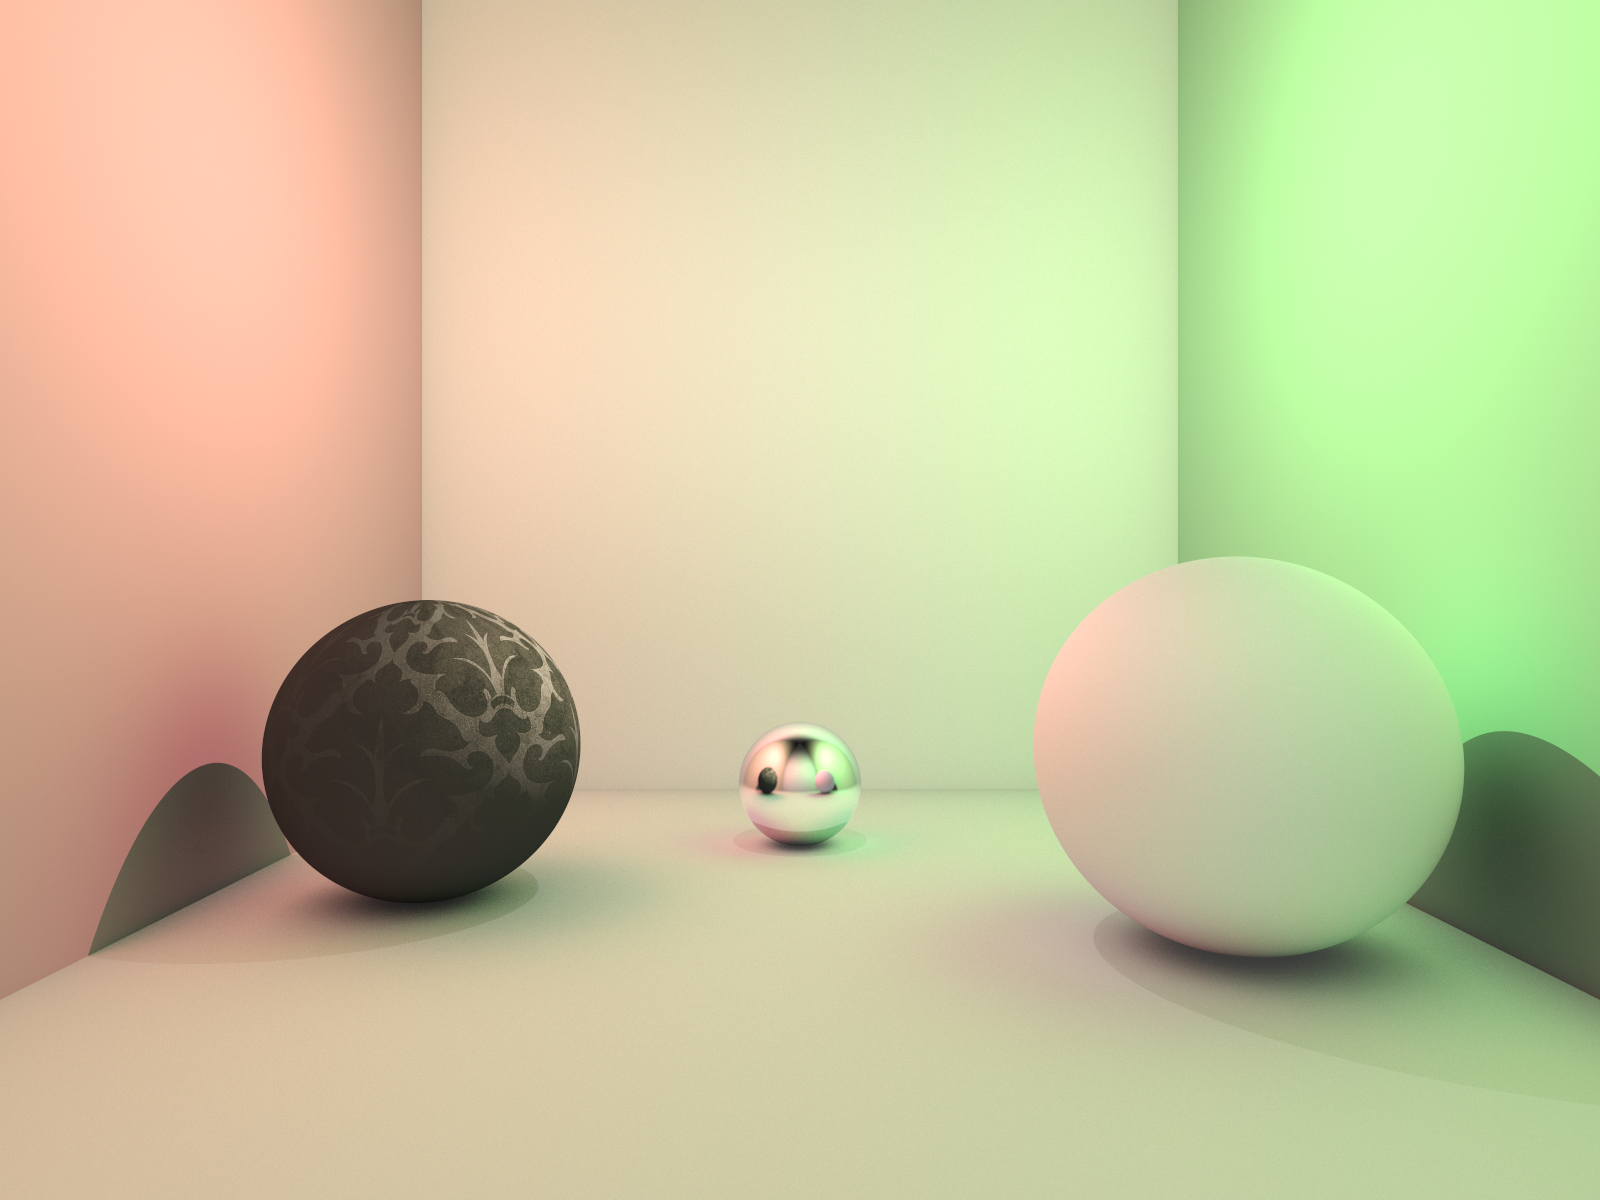
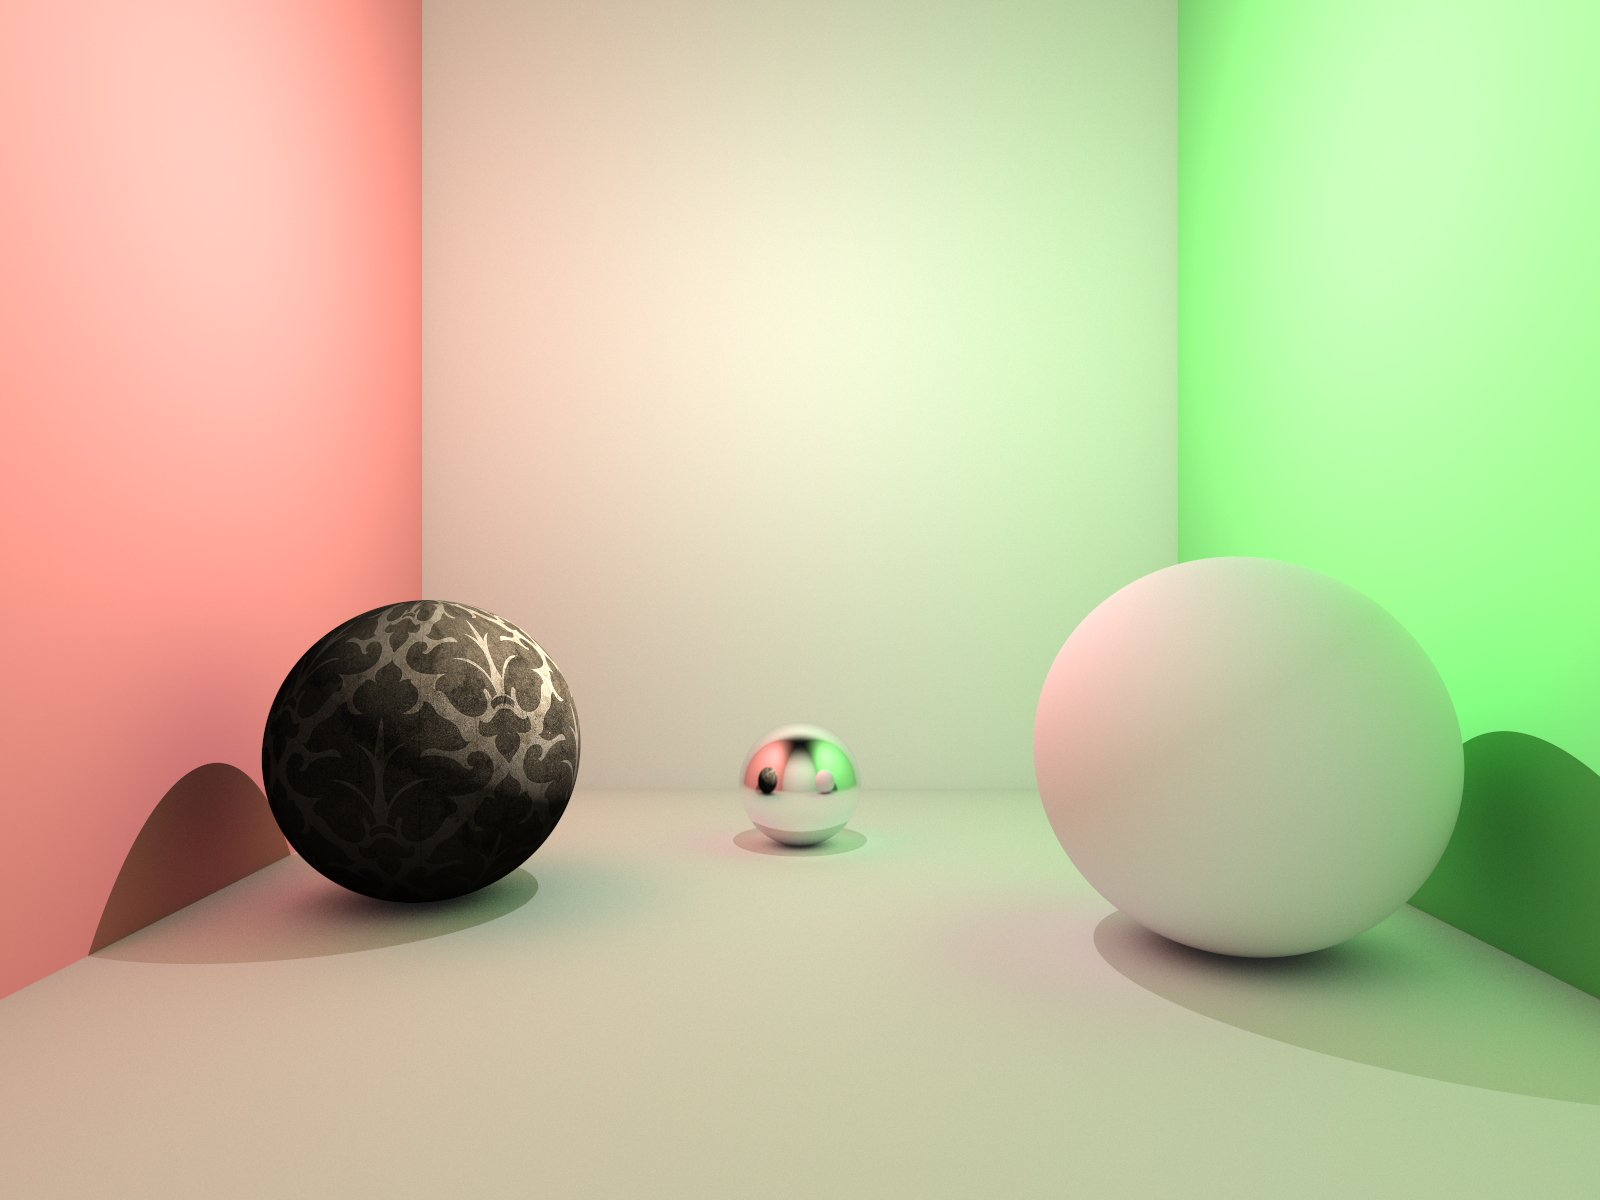
Allow rendering without light sources
This commit adds gradient background to the scene that highlights it,
allowing to render scene without light sources.

diff --git a/src/scene.rs b/src/scene.rs
@@ -26,6 +26,8 @@ impl Scene {
 
     pub fn get_color(&self, ray: &Ray, diffuse_depth: u32) -> Color {
         let mut color = Color::black();
+        let bg_start_color = Color { r: 1.0, g: 1.0 , b: 1.0 };
+        let bg_end_color = Color { r: 0.5, g: 0.7 , b: 1.0 };
 
         match self.trace(ray) {
             Some(intersection) => {
@@ -33,6 +35,11 @@ impl Scene {
                 let material = object.material();
                 let hit_point = ray.origin.add(&ray.direction.multiply(intersection.distance));
                 let surface_normal = object.surface_normal(&hit_point);
+
+                let mut texture_coords = Vector2 { x: 0.0, y: 0.0 };
+                if material.uses_texture() {
+                    texture_coords = object.texture_coords(&hit_point);
+                }
 
                 for light in self.lights.iter() {
                     let direction_to_light = light.direction_vector(&hit_point).normalize().neg();
@@ -53,32 +60,32 @@ impl Scene {
                     let light_intensity = if in_light { light.relative_intensity(&hit_point) } else { 0.0 };
                     let light_power = surface_normal.dot(&direction_to_light).max(0.0) * light_intensity;
 
-                    let mut texture_coords = Vector2 { x: 0.0, y: 0.0 };
-
-                    if material.uses_texture() {
-                        texture_coords = object.texture_coords(&hit_point);
-                    }
-
                     color = color.add_color(
                         &material.get_color(&texture_coords, light_power, &light.color())
                     );
                 }
 
                 if diffuse_depth > 0 {
+                    let diffuse_multiplier_color = material.diffuse_multiplier_color(&texture_coords);
                     let diffuse_vector = material.scatter(&ray.direction, &object.surface_normal(&hit_point));
-
 
                     let diffuse_ray = Ray {
                         origin: hit_point.clone(),
                         direction: diffuse_vector.normalize()
                     };
 
-                    color = color.add_color(&self.get_color(&diffuse_ray, diffuse_depth - 1).multiply(1.0 - material.albedo()));
-                }
+                    let diffuse_color = self.get_color(&diffuse_ray, diffuse_depth - 1).multiply(1.0 - material.albedo());
 
+                    color = color.add_color(
+                        &diffuse_multiplier_color.multiply_color(&diffuse_color)
+                    );
+                }
             },
 
-            None => {}
+            None => {
+                let t = 0.5 * (ray.direction.y + 1.0);
+                color = Color::lerp(&bg_start_color, &bg_end_color, t);
+            }
         }
 
         color

diff --git a/src/material.rs b/src/material.rs
@@ -20,7 +20,10 @@ pub struct DiffuseMaterial {
 
 #[derive(Deserialize, Debug)]
 pub struct MetallicMaterial {
-    pub fizziness: f64
+    pub fizziness: f64,
+
+    #[serde(default="Color::white")]
+    pub color: Color
 }
 
 #[derive(Deserialize)]
@@ -43,6 +46,13 @@ impl Default for Material {
 }
 
 impl Material {
+    pub fn diffuse_multiplier_color(&self, texture_coordinate: &Vector2) -> Color {
+        match self {
+            Material::DiffuseMaterial(ref dm) => dm.color_at(texture_coordinate),
+            Material::MetallicMaterial(ref mm) => mm.color.clone()
+        }
+    }
+
     pub fn get_color(&self, texture_coordinate: &Vector2, light_power: f64, light_color: &Color) -> Color {
         match self {
             Material::DiffuseMaterial(ref dm) => dm.get_color(texture_coordinate, light_power, light_color),
@@ -90,6 +100,9 @@ impl DiffuseMaterial {
         normal.add(&Vector3::random_unit())
     }
 
+    pub fn color_at(&self, coords: &Vector2) -> Color {
+        self.color.color_at(&coords)
+    }
 }
 
 impl MetallicMaterial {

diff --git a/src/geometry.rs b/src/geometry.rs
@@ -116,11 +116,6 @@ impl Intersectable for Sphere {
         let l: Vector3 = self.center.subtract(&ray.origin);
         let l_norm = l.norm();
 
-        if l_norm > 100000.0 {
-            // ignore very far distances
-            return None;
-        }
-
         // find length of projection of l on direction vector
         let adj = l.dot(&ray.direction.normalize());
 

diff --git a/src/color.rs b/src/color.rs
@@ -74,6 +74,10 @@ impl Color {
         }
     }
 
+    pub fn lerp(start: &Color, end: &Color, t: f64) -> Color {
+        start.multiply(1.0 - t).add_color(&end.multiply(t))
+    }
+
     pub fn to_rgba(&self) -> Rgba<u8> {
         Rgba::from_channels((gamma_encode(self.r) * 255.0) as u8,
                             (gamma_encode(self.g) * 255.0) as u8,

diff --git a/README.md b/README.md
@@ -4,10 +4,28 @@ This is project is my attempt to build simple renderer using rust.
 It's heavily inspired by 
 [Writing a Raytracer in Rust](https://bheisler.github.io/post/writing-raytracer-in-rust-part-1/) by Brook Heisler and  [Raytracer in One Weekend](https://www.amazon.co.uk/Ray-Tracing-Weekend-Minibooks-Book-ebook/dp/B01B5AODD8) by Peter Shirley.
 
-![Render result](https://raw.githubusercontent.com/mightykho/raytracer/master/app/out.png)
+## Render results
 
+* **Resolution:** 1600px ✕ 1200px
+* **Samples:** 1000
+* **Diffuse iterations:** 4
+* **Light sources:** 2
+* **Processor:** 2.9 GHz Intel Core i7
+* **Render Time:** 581 seconds
+
+![Render result](https://raw.githubusercontent.com/mightykho/raytracer/master/app/out.png)
 ----
+
+* **Resolution:** 1600px ✕ 1200px
+* **Samples:** 1000
+* **Diffuse iterations:** 4
+* **Light sources:** 0
+* **Processor:** 2.9 GHz Intel Core i7
+* **Render Time:** 102 seconds
+
+![Render result](https://raw.githubusercontent.com/mightykho/raytracer/master/app/out2.png)
+
 ## Usage
 
-    cd app; cargo run --release -- scene.json out.png
+    cd app; cargo run --release -- ./scenes/scene.json out.png
 
